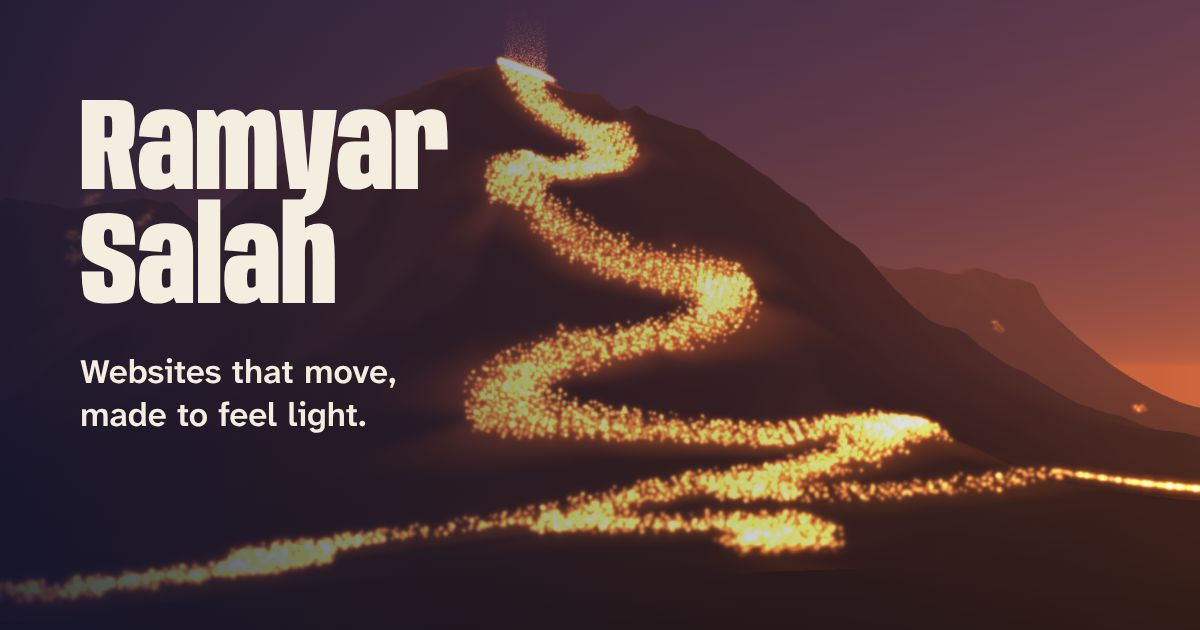
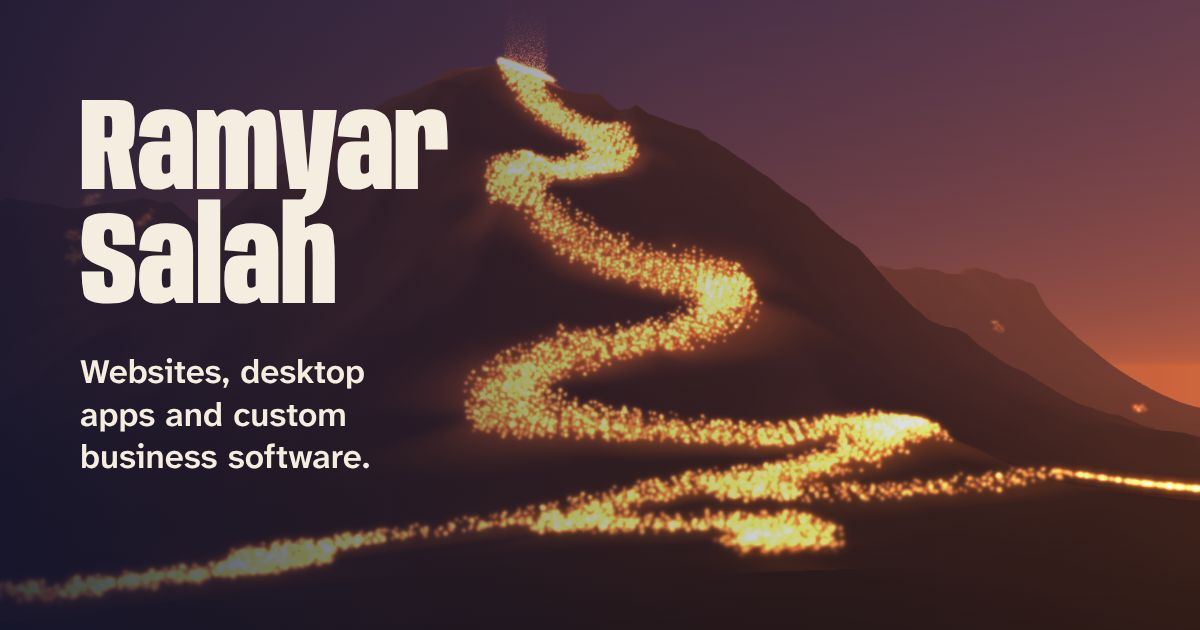
Add Ramyar's real details and services
Phone/WhatsApp, email and Facebook in the contact blocks, footer and
JSON-LD; a What I make section; About rewritten from the owner's own
words; preview image updated. Form messages are emailed to the owner
with the host's mail() when SMTP is not configured.

Claude-Session: https://claude.ai/code/session_01SqRrXWqHAsYpTkDjyQfd9F

Changed region(s): [[0.0617, 0.573, 0.3392, 0.754]]

diff --git a/site/assets/css/main.css b/site/assets/css/main.css
@@ -356,6 +356,30 @@ main:focus { outline: none; }
 }
 .next__link:hover .next__title { text-decoration: underline; text-decoration-thickness: 3px; text-underline-offset: 0.12em; }
 
+/* what I make (ember ground) */
+.make__intro { font-size: clamp(1.15rem, 1rem + 0.6vw, 1.4rem); line-height: 1.4; max-inline-size: 28ch; }
+.make { list-style: none; margin: 0; padding: 0; border-block-start: 1px solid var(--line); }
+.make li { display: grid; gap: 0.2rem; padding-block: 1rem; border-block-end: 1px solid var(--line); max-inline-size: 38rem; }
+.make__name { font-family: var(--display); font-stretch: 70%; font-weight: 760; font-size: clamp(1.5rem, 1.2rem + 1vw, 2rem); line-height: 1; }
+.make__more { margin-block: 1.5rem 0; font-weight: 700; display: flex; flex-wrap: wrap; align-items: center; gap: 0.25rem 1rem; }
+
+/* ways to reach (any ground) */
+.reach { list-style: none; margin: 1.5rem 0 0; padding: 0; display: grid; gap: 0.5rem; max-inline-size: 30rem; }
+.reach__link {
+  display: grid; grid-template-columns: auto 1fr; align-items: center; column-gap: 0.75rem; row-gap: 0.05rem;
+  min-block-size: 48px; padding: 0.6rem 0.9rem; border: 1px solid var(--line); border-radius: 0.55rem; text-decoration: none;
+  transition: background-color 0.2s, border-color 0.2s;
+}
+.reach__link .icon { grid-row: span 2; inline-size: 1.4rem; block-size: 1.4rem; }
+.reach__link:hover { border-color: currentColor; }
+.reach__label { font-weight: 700; line-height: 1.2; }
+.reach__value { color: var(--muted); font-size: 0.875rem; line-height: 1.3; overflow-wrap: anywhere; font-variant-numeric: tabular-nums; }
+.reach__copy { margin-block-start: 1rem; }
+.reach__form { margin-block: 1.25rem 0; }
+.close .reach { inline-size: 100%; }
+@media (min-width: 40rem) { .close .reach { grid-template-columns: repeat(2, minmax(0, 1fr)); max-inline-size: 44rem; } }
+.contact-aside__lead { font-weight: 700; margin: 0; }
+
 /* ---------- contact ---------- */
 
 .contact-aside p { margin-block-end: 0.4rem; }

diff --git a/site/includes/pages/home.php b/site/includes/pages/home.php
@@ -4,7 +4,7 @@ $work = projects();
 <section class="hero" aria-labelledby="hero-title">
   <div class="hero__copy">
     <h1 id="hero-title" class="hero__name"><span>Ramyar</span> <span>Salah</span></h1>
-    <p class="hero__lede">Websites that move, made to feel light.</p>
+    <p class="hero__lede">I make business owners’ dreams come true: websites, desktop apps and custom business software.</p>
     <div class="hero__actions">
       <a class="button button--fire" href="<?= e(url('/contact')) ?>">Get in touch<?= icon('arrow') ?></a>
       <a class="link-quiet" href="#work">See the work</a>
@@ -45,14 +45,20 @@ $work = projects();
 
 <div class="window"><p class="window__caption">Midnight. The line reaches the summit.</p></div>
 
-<section class="ground ground--ember ridge-top ridge-bottom" aria-labelledby="about-title">
+<section class="ground ground--ember ridge-top ridge-bottom" aria-labelledby="make-title">
   <div class="wrap split">
-    <h2 id="about-title" class="section-title">Why a mountain on fire</h2>
-    <div class="prose">
-      <p>On the night before Newroz, the Kurdish new year, fires are lit on the mountains, and in towns like Akre people carry torches up the hillside until the whole slope is a moving line of light.</p>
-      <p>This site rebuilds that night. Every point of light is a walker with a place in the line, a little wind, and a tendency to step toward you. Move your pointer, or touch the ridge, and the closest walkers turn your way.</p>
-      <p><?= client('two or three sentences about you: where you work from, what you like to build, who you build it for') ?></p>
-      <p><a class="link-arrow" href="<?= e(url('/about')) ?>">More about Ramyar<?= icon('arrow') ?></a></p>
+    <div>
+      <h2 id="make-title" class="section-title">What I make</h2>
+      <p class="make__intro">For business owners who want software that fits the way they work, and looks like it was made this year.</p>
+    </div>
+    <div>
+      <ul class="make">
+        <li><span class="make__name">Websites</span> Modern, fast sites with a design that looks current, not left behind.</li>
+        <li><span class="make__name">Desktop apps</span> Software that runs on your own computers, in your office or shop.</li>
+        <li><span class="make__name">Admin utilities</span> Custom tools for the jobs behind the scenes: managing records, users and daily tasks.</li>
+        <li><span class="make__name">Custom business software</span> Built around how your business actually runs, instead of bending your business to fit a product.</li>
+      </ul>
+      <p class="make__more">Bachelor’s degree in IT. <a class="link-arrow" href="<?= e(url('/about')) ?>">More about Ramyar<?= icon('arrow') ?></a></p>
     </div>
   </div>
 </section>
@@ -62,21 +68,17 @@ $work = projects();
 <section class="ground ground--dawn ridge-top" aria-labelledby="close-title">
   <div class="wrap close">
     <h2 id="close-title" class="close__title">Light the next fire</h2>
-    <p class="close__lede">Have something in mind? Tell me about it.</p>
+    <p class="close__lede">Tell me about your business and what you want it to do. Message me here, or call or WhatsApp.</p>
     <div class="close__actions">
       <a class="button button--ink" href="<?= e(url('/contact')) ?>">Write a message<?= icon('arrow') ?></a>
-<?php if (CONTACT_EMAIL !== ''): ?>
-      <button class="button button--line" type="button" data-copy="<?= e(CONTACT_EMAIL) ?>" hidden><?= icon('copy') ?><span data-copy-label>Copy email address</span></button>
-      <a class="link-quiet" href="mailto:<?= e(CONTACT_EMAIL) ?>"><?= e(CONTACT_EMAIL) ?></a>
-<?php endif ?>
     </div>
-    <p class="visually-hidden" aria-live="polite" data-copy-status></p>
+<?php $reachCopy = true; require ROOT . '/includes/partials/reach.php'; ?>
   </div>
 </section>
 <?php
 return [
-    'title' => 'Ramyar Salah · Portfolio',
-    'description' => 'Portfolio of Ramyar Salah. The site opens on a live Newroz night: a torch procession climbing a Zagros ridge to a summit fire.',
+    'title' => 'Ramyar Salah · Websites, desktop apps and business software',
+    'description' => 'Ramyar Salah builds websites, desktop apps, admin utilities and custom business software for business owners, with a modern design eye. Call or WhatsApp 0770 083 5557.',
     'path' => '/',
     'scene' => 'full',
     'current' => '/',

diff --git a/site/includes/pages/contact.php b/site/includes/pages/contact.php
@@ -59,7 +59,7 @@ if ($_SERVER['REQUEST_METHOD'] === 'POST') {
         $id = (int)$db->lastInsertId();
         $db->prepare('DELETE FROM messages WHERE created_at < ?')->execute([date('c', strtotime('-12 months'))]);   // retention (privacy page)
         $body = "New message from the website\n\nName: {$values['name']}\nEmail: {$values['email']}\n\n{$values['message']}\n";
-        if (smtp_send('Website message from ' . mb_substr($values['name'], 0, 60), $body, $values['email'])) {
+        if (notify_owner('Website message from ' . mb_substr($values['name'], 0, 60), $body, $values['email'])) {
             $db->prepare('UPDATE messages SET mailed = 1 WHERE id = ?')->execute([$id]);
         }
         header('Location: ' . url('/contact', ['sent' => '1']), true, 303);
@@ -71,7 +71,7 @@ http_response_code($status);
 
 $sent = ($_GET['sent'] ?? '') === '1' && $_SERVER['REQUEST_METHOD'] === 'GET';
 $band = ['id' => 'contact-title', 'title' => $sent ? 'Message sent' : 'Get in touch', 'hour' => '0.84', 'progress' => '0.75', 'poster' => 'dawn',
-         'lede' => $sent ? 'Thank you. The summit fire is a little brighter for it. I reply by email.' : 'Tell me what you want to build. I reply by email.'];
+         'lede' => $sent ? 'Thank you. The summit fire is a little brighter for it. I will get back to you soon.' : 'Tell me about your business and what you want to build.'];
 require ROOT . '/includes/partials/scene-band.php';
 $field = function (string $k) use ($errors): string {
     return isset($errors[$k]) ? ' aria-invalid="true" aria-describedby="' . $k . '-error"' : ' aria-invalid="false"';
@@ -80,19 +80,13 @@ $field = function (string $k) use ($errors): string {
 <section class="ground ground--dawn" aria-label="<?= $sent ? 'What happens next' : 'Contact form' ?>">
   <div class="wrap split">
     <div class="contact-aside">
-<?php if (CONTACT_EMAIL !== ''): ?>
-      <p>Prefer email?</p>
-      <p><a class="link-arrow" href="mailto:<?= e(CONTACT_EMAIL) ?>"><?= e(CONTACT_EMAIL) ?></a></p>
-      <button class="button button--line" type="button" data-copy="<?= e(CONTACT_EMAIL) ?>" hidden><?= icon('copy') ?><span data-copy-label>Copy email address</span></button>
-      <p class="visually-hidden" aria-live="polite" data-copy-status></p>
-<?php else: ?>
-      <p>A few lines are enough: what you are building, for whom, and when you need it.</p>
-<?php endif ?>
+      <p class="contact-aside__lead">Faster on the phone? Call or WhatsApp me.</p>
+<?php $reachCopy = true; require ROOT . '/includes/partials/reach.php'; ?>
     </div>
 <?php if ($sent): ?>
     <div class="sent" data-flare>
       <p class="sent__title">Your message is on its way.</p>
-      <p>It is saved and I will answer at the email address you gave.<?php if (CONTACT_EMAIL !== ''): ?> If it is urgent, write to <a href="mailto:<?= e(CONTACT_EMAIL) ?>"><?= e(CONTACT_EMAIL) ?></a> directly.<?php endif ?></p>
+      <p>I will answer at the email address you gave. If it is urgent, call or WhatsApp me on <a href="tel:<?= e(CONTACT_PHONE) ?>"><span dir="ltr"><?= e(phone_local(CONTACT_PHONE)) ?></span></a>.</p>
       <p><a class="link-arrow" href="<?= e(url('/work')) ?>">Back to the work<?= icon('arrow') ?></a></p>
     </div>
 <?php else: ?>
@@ -133,7 +127,7 @@ $field = function (string $k) use ($errors): string {
 <?php
 return [
     'title' => $sent ? 'Message sent' : 'Contact',
-    'description' => 'Get in touch with Ramyar Salah about your project.',
+    'description' => 'Get in touch with Ramyar Salah about a website, a desktop app or custom business software. Call or WhatsApp 0770 083 5557, or send a message.',
     'path' => '/contact',
     'scene' => 'band',
     'current' => '/contact',

diff --git a/site/includes/pages/about.php b/site/includes/pages/about.php
@@ -1,6 +1,6 @@
 <?php
 $band = ['id' => 'about-title', 'title' => 'About', 'hour' => '0.3', 'progress' => '0.25', 'poster' => 'dusk',
-         'lede' => client('one line: who you are and what you make')];
+         'lede' => 'I make business owners’ dreams come true.'];
 require ROOT . '/includes/partials/scene-band.php';
 ?>
 <section class="ground ground--ember" aria-labelledby="bio-title">
@@ -10,26 +10,25 @@ require ROOT . '/includes/partials/scene-band.php';
       <figure class="portrait">
         <div class="portrait__slot"><?= client('portrait photo, 4:5, your own') ?></div>
       </figure>
-      <p><?= client('who you are and where you work from, two sentences') ?></p>
-      <p><?= client('what you build and for whom, two or three sentences') ?></p>
-      <p><?= client('how you like to work with people: availability, languages, time zone') ?></p>
+      <p>I am Ramyar Salah. I build the software a business runs on: websites, desktop apps, admin utilities and custom business software, made for the way each owner actually works.</p>
+      <p>I hold a Bachelor’s degree in IT. I also care about how things look: my designs are modern and current, never stuck in old, legacy styles.</p>
+      <p>If you have an idea for your business, a website you are not proud of, or a job your team still does by hand, I would like to hear about it.</p>
     </div>
   </div>
 </section>
-<section class="ground ground--night" aria-labelledby="site-title">
+<section class="ground ground--night" aria-labelledby="reach-title">
   <div class="wrap split">
-    <h2 id="site-title" class="section-title">About this site</h2>
-    <div class="prose">
-      <p>The look of this site comes from Newroz, from fires carried up the Zagros mountains on the eve of the new year, not from a template.</p>
-      <p>It is made to work for everyone: it reads on an old phone and a weak connection, with or without motion, and with the keyboard alone.</p>
-      <p><a class="link-arrow" href="<?= e(url('/work/newroz-on-the-ridge')) ?>">See the night scene<?= icon('arrow') ?></a></p>
+    <h2 id="reach-title" class="section-title">Reach me</h2>
+    <div>
+<?php $reachCopy = true; require ROOT . '/includes/partials/reach.php'; ?>
+      <p class="reach__form">Or <a href="<?= e(url('/contact')) ?>">send a message from the site</a>.</p>
     </div>
   </div>
 </section>
 <?php
 return [
     'title' => 'About',
-    'description' => 'About Ramyar Salah, and the Newroz night that this site is made from.',
+    'description' => 'Ramyar Salah builds websites, desktop apps, admin utilities and custom business software for business owners. Bachelor’s degree in IT, modern design.',
     'path' => '/about',
     'scene' => 'band',
     'current' => '/about',

diff --git a/site/includes/functions.php b/site/includes/functions.php
@@ -89,7 +89,9 @@ function route(array $routes, string $method, string $path): array
 const SETTING_DEFAULTS = [
     'SITE_NAME' => 'Ramyar Salah',
     'CANONICAL_HOST' => '',      // empty: use the host the site is served from
-    'CONTACT_EMAIL' => '',       // empty: the site shows only the contact form
+    'CONTACT_EMAIL' => 'ramyar.techie@gmail.com',      // shown on the site; receives form messages
+    'CONTACT_PHONE' => '+9647700835557',               // E.164; also the WhatsApp number
+    'FACEBOOK_URL'  => 'https://www.facebook.com/share/1JKBxYyGV9/',
     'SMTP_HOST' => '', 'SMTP_PORT' => '587', 'SMTP_USER' => '', 'SMTP_PASS' => '', 'MAIL_FROM' => '', 'MAIL_TO' => '',
 ];
 
@@ -298,7 +300,43 @@ function lastmod(string ...$files): string
     return date('c', $t ?: time());
 }
 
-/* ---------- mail (optional SMTP notification; the form saves even if this fails) ---------- */
+/* ---------- phone ---------- */
+
+/** +9647700835557 -> 0770 083 5557 (Iraqi mobile display form) */
+function phone_local(string $e164): string
+{
+    $n = '0' . substr($e164, 4);
+    return substr($n, 0, 4) . ' ' . substr($n, 4, 3) . ' ' . substr($n, 7);
+}
+function whatsapp_url(string $e164): string
+{
+    return 'https://wa.me/' . ltrim($e164, '+');
+}
+
+/* ---------- mail: SMTP when configured, else the host's mail(); the form saves even if both fail ---------- */
+
+function notify_owner(string $subject, string $body, string $replyTo): bool
+{
+    if (SMTP_HOST !== '') return smtp_send($subject, $body, $replyTo);
+    $to = MAIL_TO !== '' ? MAIL_TO : CONTACT_EMAIL;
+    $host = preg_replace('/^www\./', '', explode(':', site_host())[0]);
+    // no mail server on a development machine; shared hosts (Hostinger, cPanel) provide mail()
+    if ($to === '' || ENV === 'local' || $host === 'localhost' || !str_contains($host, '.') || !function_exists('mail')) return false;
+    $strip = fn(string $s): string => str_replace(["\r", "\n"], ' ', $s);
+    $from = MAIL_FROM !== '' ? MAIL_FROM : 'website@' . $host;
+    $headers = [
+        'From: ' . $strip(SITE_NAME) . ' website <' . $strip($from) . '>',
+        'Reply-To: <' . $strip($replyTo) . '>',
+        'MIME-Version: 1.0',
+        'Content-Type: text/plain; charset=UTF-8',
+        'Content-Transfer-Encoding: base64',
+    ];
+    $ok = @mail($strip($to), '=?UTF-8?B?' . base64_encode($strip($subject)) . '?=', chunk_split(base64_encode($body)), implode("\r\n", $headers));
+    if (!$ok) error_log('mail(): message not handed to the mail server');
+    return $ok;
+}
+
+/* ---------- SMTP ---------- */
 
 function smtp_send(string $subject, string $body, string $replyTo): bool
 {

diff --git a/site/includes/partials/layout.php b/site/includes/partials/layout.php
@@ -10,8 +10,11 @@ $person = [
     '@type' => 'Person',
     'name' => 'Ramyar Salah',
     'url' => abs_url('/'),
-    'sameAs' => ['https://github.com/ram-source-code'],
+    'description' => 'Builds websites, desktop apps, admin utilities and custom business software for business owners.',
+    'sameAs' => array_values(array_filter([FACEBOOK_URL, 'https://github.com/ram-source-code'])),
 ];
+if (CONTACT_PHONE !== '') $person['telephone'] = CONTACT_PHONE;
+if (CONTACT_EMAIL !== '') $person['email'] = 'mailto:' . CONTACT_EMAIL;
 $ld = $meta['jsonld'] ?? [$person];
 // data saver on (Save-Data header) or ?still: keep the still image, skip the scene's JavaScript
 $sceneJs = !empty($meta['scene']) && strtolower($_SERVER['HTTP_SAVE_DATA'] ?? '') !== 'on' && !isset($_GET['still']);
@@ -93,6 +96,12 @@ if (!empty($meta['scene'])) header('Vary: Save-Data');
   <div class="site-footer__inner">
     <p class="site-footer__ask">Have something to build? <a href="<?= e(url('/contact')) ?>">Get in touch</a></p>
     <ul class="site-footer__links">
+<?php if (CONTACT_PHONE !== ''): ?>
+      <li><a href="<?= e(whatsapp_url(CONTACT_PHONE)) ?>" rel="noopener noreferrer" target="_blank">WhatsApp <span dir="ltr"><?= e(phone_local(CONTACT_PHONE)) ?></span><?= icon('external') ?><span class="visually-hidden"> (opens in a new tab)</span></a></li>
+<?php endif ?>
+<?php if (FACEBOOK_URL !== ''): ?>
+      <li><a href="<?= e(FACEBOOK_URL) ?>" rel="noopener noreferrer" target="_blank">Facebook<?= icon('external') ?><span class="visually-hidden"> (opens in a new tab)</span></a></li>
+<?php endif ?>
       <li><a href="https://github.com/ram-source-code" rel="noopener noreferrer" target="_blank">GitHub<?= icon('external') ?><span class="visually-hidden"> (opens in a new tab)</span></a></li>
       <li><a href="<?= e(url('/privacy')) ?>"<?= $current === '/privacy' ? ' aria-current="page"' : '' ?>>Privacy</a></li>
     </ul>

diff --git a/site/includes/partials/reach.php b/site/includes/partials/reach.php
@@ -1,0 +1,20 @@
+<?php
+/** The ways to reach Ramyar, from .env or the defaults in functions.php. Optional: $reachCopy = true adds a copy-email button. */
+$ext = '<span class="visually-hidden"> (opens in a new tab)</span>';
+?>
+<ul class="reach">
+<?php if (CONTACT_PHONE !== ''): ?>
+  <li><a class="reach__link" href="<?= e(whatsapp_url(CONTACT_PHONE)) ?>" rel="noopener noreferrer" target="_blank"><?= icon('chat') ?><span class="reach__label">WhatsApp</span><span class="reach__value" dir="ltr"><?= e(phone_local(CONTACT_PHONE)) ?></span><?= $ext ?></a></li>
+  <li><a class="reach__link" href="tel:<?= e(CONTACT_PHONE) ?>"><?= icon('phone') ?><span class="reach__label">Call</span><span class="reach__value" dir="ltr"><?= e(phone_local(CONTACT_PHONE)) ?></span></a></li>
+<?php endif ?>
+<?php if (CONTACT_EMAIL !== ''): ?>
+  <li><a class="reach__link" href="mailto:<?= e(CONTACT_EMAIL) ?>"><?= icon('mail') ?><span class="reach__label">Email</span><span class="reach__value"><?= e(CONTACT_EMAIL) ?></span></a></li>
+<?php endif ?>
+<?php if (FACEBOOK_URL !== ''): ?>
+  <li><a class="reach__link" href="<?= e(FACEBOOK_URL) ?>" rel="noopener noreferrer" target="_blank"><?= icon('people') ?><span class="reach__label">Facebook</span><span class="reach__value">Ramyar Salah</span><?= $ext ?></a></li>
+<?php endif ?>
+</ul>
+<?php if (!empty($reachCopy) && CONTACT_EMAIL !== ''): ?>
+<button class="button button--line reach__copy" type="button" data-copy="<?= e(CONTACT_EMAIL) ?>" hidden><?= icon('copy') ?><span data-copy-label>Copy email address</span></button>
+<p class="visually-hidden" aria-live="polite" data-copy-status></p>
+<?php endif ?>

diff --git a/site/includes/pages/privacy.php b/site/includes/pages/privacy.php
@@ -13,7 +13,7 @@
       <p>Only what you type into the contact form: your name, your email address and your message. They are used for one thing: replying to you.</p>
       <p>Reading the site sets no cookies and runs no analytics, ads or tracking. If you pause the 3D scene, your browser remembers that choice in its own storage on your device; nothing is sent anywhere.</p>
       <h2>Who receives it</h2>
-      <p>Messages are stored in a database on this site’s web host, and may be forwarded to my own inbox by email so I see them quickly. Nobody else receives them. Nothing is sold or shared.</p>
+      <p>Messages are stored in a database on this site’s web host and sent to my own email inbox so I see them quickly. Nobody else receives them. Nothing is sold or shared.</p>
       <p>The server keeps short-lived records to stop spam: the time of each form submission and a scrambled form of your network address that cannot be turned back into the address. They are deleted after 24 hours.</p>
       <h2>How long it is kept</h2>
       <p>Messages are kept for up to 12 months, then deleted automatically.</p>

diff --git a/docs/README.md b/docs/README.md
@@ -56,7 +56,7 @@ The readable scripts live in `src/js/` (outside `site/`, never uploaded):
 
 - Projects: `includes/content.php`. Set `placeholder` to `false` and fill `title`, `year`, `role`, `summary`, `stack` once a project is real. A placeholder project is `noindex` and stays out of the sitemap. Its case-study body is in the placeholder branch of `includes/pages/project.php`.
 - Copy: `includes/pages/*.php`. Every `client('…')` call renders a visible `[CLIENT: …]` slot; search for `client(` to find them all.
-- Contact email shown on the site: `CONTACT_EMAIL` in an optional `.env` (none by default: the site shows the contact form only).
+- Contact details (email, phone/WhatsApp, Facebook): defaults in `SETTING_DEFAULTS` in `includes/functions.php`; an optional `.env` overrides them. They appear in the contact blocks (`includes/partials/reach.php`), the footer and the Person JSON-LD.
 
 ## Contact messages (no admin panel by design)
 
@@ -70,7 +70,7 @@ php includes/cli/messages.php backup                      # VACUUM INTO data/bac
 ```
 
 On shared hosting without SSH, run them through hPanel's cron ("run once") or ask for a copy of `data/site.sqlite` via the File Manager *after* a `backup` (never copy the live file).
-Email notifications: fill the `SMTP_*` and `MAIL_*` keys. Leave `SMTP_HOST = ""` to only save messages. If SMTP fails, the message is still saved (`mailed = 0`).
+Email notifications: every message is also emailed to `CONTACT_EMAIL` (or `MAIL_TO`) with the host's built-in `mail()`, from `website@<your domain>`. For better delivery, fill the `SMTP_*` keys from your host's email account. If sending fails the message is still saved (`mailed = 0`); on localhost nothing is sent.
 Messages older than 12 months are deleted automatically on each new message (privacy page promise).
 
 ## Deploy (Hostinger / any Apache or LiteSpeed host)

diff --git a/docs/STATUS.md b/docs/STATUS.md
@@ -2,6 +2,13 @@
 
 Dev-only report (spec Part F). Built unattended on 20 Nov 2026. Statuses: ✅ ran it and saw the result · N/A with reason · `DEV` the developer must run it · ❌ failed (see Known issues).
 
+## Update 20 Nov 2026: owner's real details
+
+- From the owner: phone/WhatsApp 0770 083 5557 (`tel:+9647700835557`, `wa.me/9647700835557`), email ramyar.techie@gmail.com, Facebook link, Bachelor's degree in IT, builds websites, desktop apps, admin utilities and custom business software for business owners, modern design taste. Used in the hero, a new "What I make" section, About, Contact, footer, Person JSON-LD (telephone, email, sameAs) and the link-preview image.
+- Form messages are now emailed to the owner with zero setup (host `mail()`, SMTP optional) and still saved first.
+- Still placeholders: portrait photo, two project slots.
+- Checked: detector 0, axe clean, 21/21 browser tests.
+
 ## Update 20 Nov 2026: smoothness pass and no build details on the page
 
 - Visible content no longer says how the site is made: no technology names in copy, titles, descriptions, the link-preview image or the scene controls (status line removed); no console messages or debug hooks; script files renamed and shipped minified from `src/js` (`tools/build-js.sh`). The browser APIs the scene needs (`getContext('webgpu')`, `'webgl2'`) cannot be hidden from someone reading the code.
